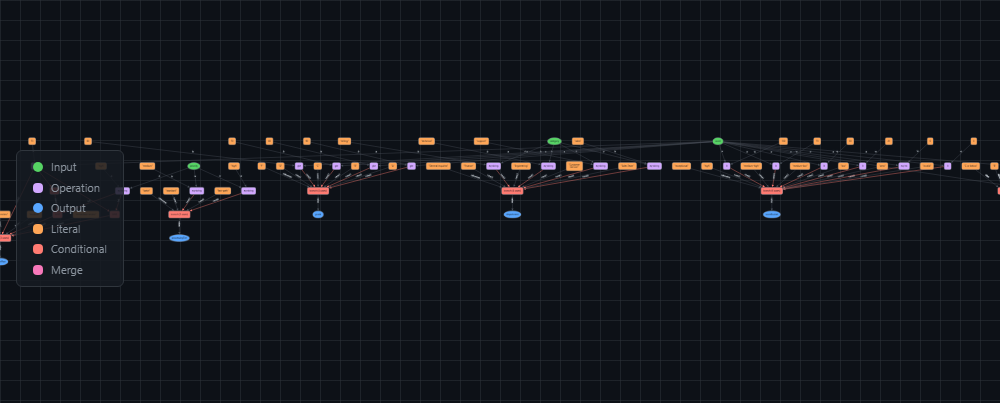
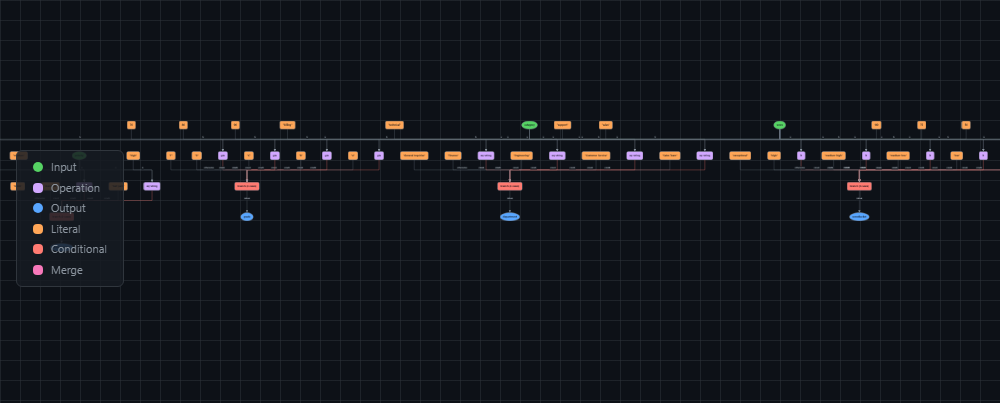
fix(dashboard): improve DAG readability with taxi edges and better styling
- Switch edge routing from bezier to taxi (right-angle turns) for cleaner flow
- Use monospace font for edge labels, remove italic, improve contrast
- Increase node font weight to 600 (semibold) for readability
- Add minimum node dimensions (60x30px) so small labels stay legible
- Increase layout spacing (nodeSep: 80, rankSep: 110, edgeSep: 50)
- Strengthen execution state borders (5px) with 15% overlay glow
- Add dashed border style for running nodes
- Update taxi direction dynamically when switching TB/LR layout
- Update screenshots reflecting new visual style

diff --git a/modules/http-api/src/main/resources/dashboard/static/js/components/dag-visualizer.js b/modules/http-api/src/main/resources/dashboard/static/js/components/dag-visualizer.js
@@ -139,20 +139,25 @@ class DagVisualizer {
                     'label': 'data(label)',
                     'text-valign': 'center',
                     'text-halign': 'center',
-                    'font-size': '12px',
+                    'font-size': '13px',
+                    'font-weight': 600,
                     'font-family': '-apple-system, BlinkMacSystemFont, "Segoe UI", sans-serif',
                     'color': '#0d1117',
                     'text-wrap': 'wrap',
-                    'text-max-width': '100px',
+                    'text-max-width': '120px',
                     'width': 'label',
                     'height': 'label',
-                    'padding': '12px',
+                    'padding': '14px',
+                    'min-width': '60px',
+                    'min-height': '30px',
                     'shape': 'roundrectangle',
                     'background-color': 'data(color)',
                     'border-width': 2,
                     'border-color': 'data(borderColor)',
                     'text-outline-color': 'data(color)',
-                    'text-outline-width': 0
+                    'text-outline-width': 0,
+                    'transition-property': 'border-color border-width background-color',
+                    'transition-duration': '0.3s'
                 }
             },
             // Selected node
@@ -182,20 +187,24 @@ class DagVisualizer {
             {
                 selector: 'edge',
                 style: {
-                    'width': 2,
-                    'line-color': '#484f58',
-                    'target-arrow-color': '#484f58',
+                    'width': 1.5,
+                    'line-color': '#6e7681',
+                    'target-arrow-color': '#8b949e',
                     'target-arrow-shape': 'triangle',
                     'arrow-scale': 1.3,
-                    'curve-style': 'bezier',
+                    'curve-style': 'taxi',
+                    'taxi-direction': 'downward',
+                    'taxi-turn': '50px',
+                    'taxi-turn-min-distance': 10,
                     'label': 'data(label)',
-                    'font-size': '11px',
-                    'color': '#e6edf3',
+                    'font-size': '10px',
+                    'font-family': '"SF Mono", "Consolas", "Monaco", monospace',
+                    'color': '#c9d1d9',
                     'text-background-color': '#161b22',
-                    'text-background-opacity': 0.85,
+                    'text-background-opacity': 0.92,
                     'text-background-padding': '3px',
                     'text-background-shape': 'roundrectangle',
-                    'text-rotation': 'autorotate',
+                    'text-rotation': 'none',
                     'text-margin-y': -10
                 }
             },
@@ -215,37 +224,47 @@ class DagVisualizer {
                     'target-arrow-color': '#ff7b72'
                 }
             },
-            // Running nodes - blue border + glow
+            // Running nodes - pulsing blue border
             {
                 selector: 'node[status = "Running"]',
                 style: {
-                    'border-width': 4,
+                    'border-width': 5,
                     'border-color': '#58a6ff',
+                    'border-style': 'dashed',
                     'overlay-color': '#58a6ff',
-                    'overlay-opacity': 0.08,
-                    'overlay-padding': 6
+                    'overlay-opacity': 0.15,
+                    'overlay-padding': 8
                 }
             },
-            // Completed nodes - green border + glow
+            // Completed nodes - solid green border + checkmark feel
             {
                 selector: 'node[status = "Completed"]',
                 style: {
-                    'border-width': 4,
+                    'border-width': 5,
                     'border-color': '#3fb950',
                     'overlay-color': '#3fb950',
-                    'overlay-opacity': 0.08,
-                    'overlay-padding': 6
+                    'overlay-opacity': 0.15,
+                    'overlay-padding': 8
                 }
             },
-            // Failed nodes - red border + glow
+            // Failed nodes - red border
             {
                 selector: 'node[status = "Failed"]',
                 style: {
-                    'border-width': 4,
+                    'border-width': 5,
                     'border-color': '#f85149',
                     'overlay-color': '#f85149',
-                    'overlay-opacity': 0.08,
-                    'overlay-padding': 6
+                    'overlay-opacity': 0.15,
+                    'overlay-padding': 8
+                }
+            },
+            // Completed edges - green
+            {
+                selector: 'edge[status = "Completed"]',
+                style: {
+                    'line-color': '#3fb950',
+                    'target-arrow-color': '#3fb950',
+                    'width': 3
                 }
             },
             // Dimmed state for non-hovered neighborhood
@@ -340,13 +359,17 @@ class DagVisualizer {
      * Run the dagre layout
      */
     runLayout() {
+        // Update taxi direction based on layout
+        const taxiDir = this.layoutDirection === 'LR' ? 'rightward' : 'downward';
+        this.cy.edges().style('taxi-direction', taxiDir);
+
         const layout = this.cy.layout({
             name: 'dagre',
             rankDir: this.layoutDirection,
-            nodeSep: 50,
-            rankSep: 80,
-            edgeSep: 30,
-            padding: 30,
+            nodeSep: 80,
+            rankSep: 110,
+            edgeSep: 50,
+            padding: 50,
             animate: true,
             animationDuration: 300
         });
